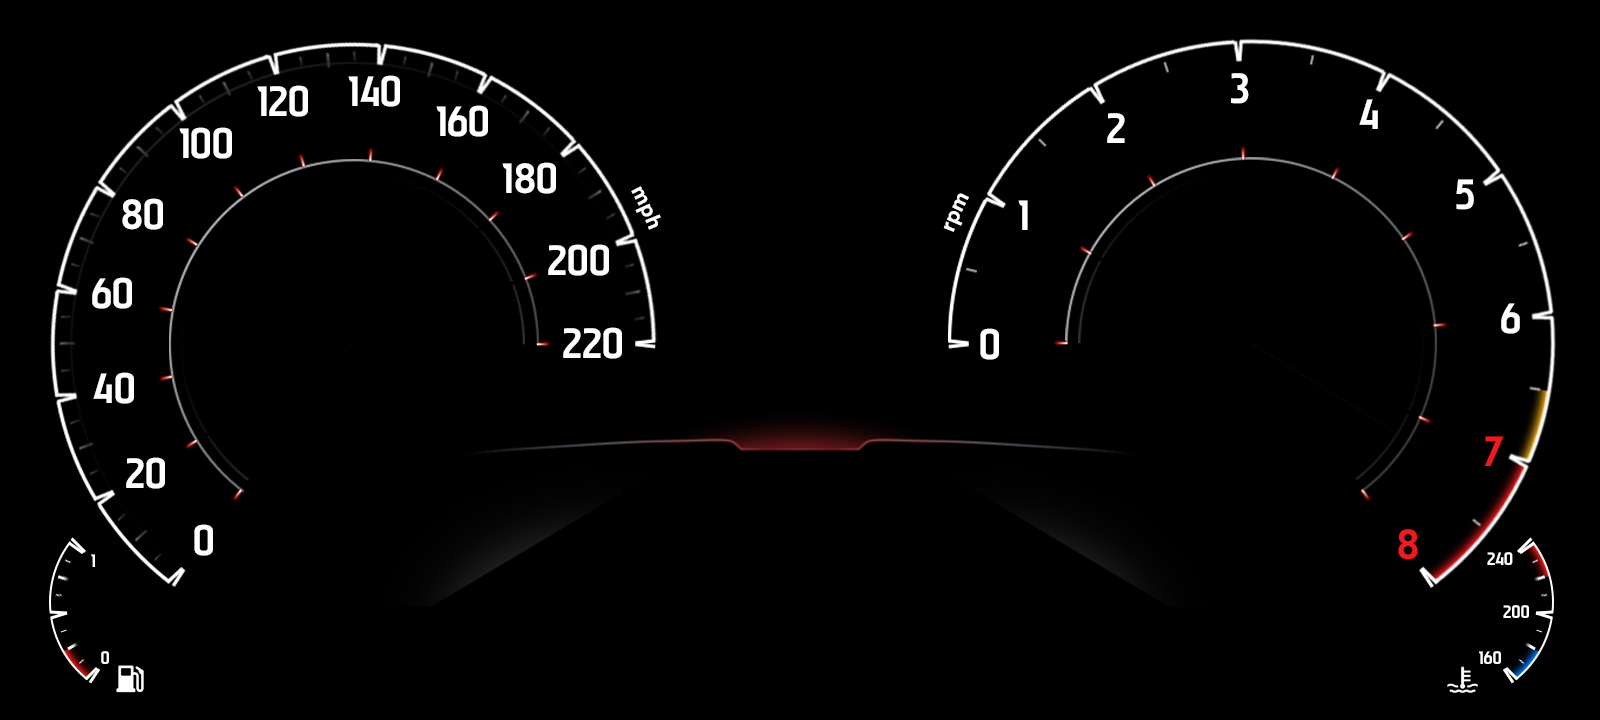
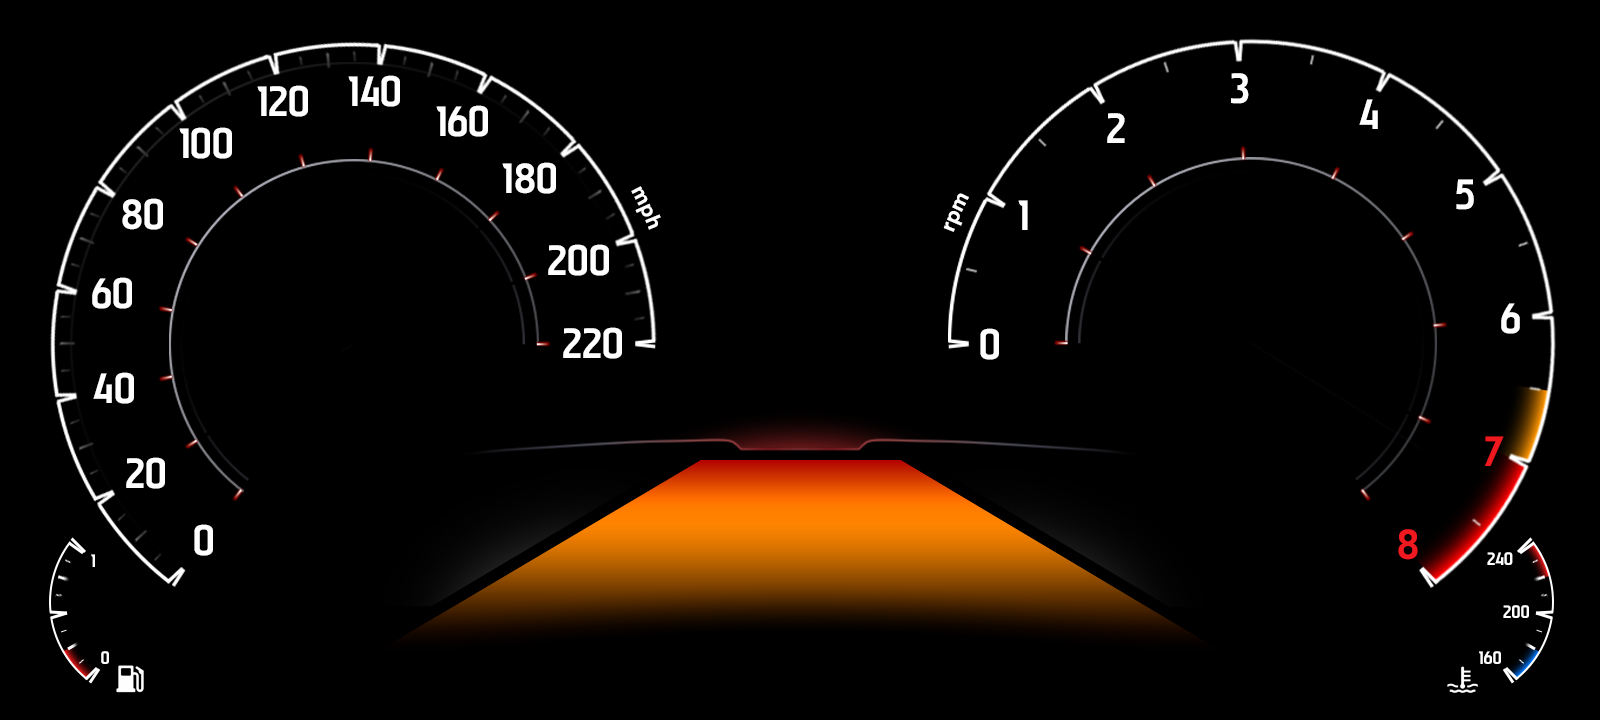
Add boost gauge, reposition indicators to top row, and update background
- Add boost gauge with trapezoid black overlay that recedes with boost pressure (0-30 PSI)
- Add boost PSI readout (range font) and scale lines overlay asset
- Add boost simulation to SimEngine (builds with throttle at higher RPM)
- Move warning indicators (oil, CEL, beams, battery, coolant) to top row
- Reposition gear indicator to upper center
- Update background.png with new gauge layout including boost area
- Add missing #include <unistd.h> in main.cpp
- Update SETUP.md to document boost gauge and layout changes

Changed region(s): [[0.25, 0.6417, 0.75, 0.8861], [0.875, 0.5194, 0.9688, 0.7944]]

diff --git a/br2-external/package/ultima-app/src/main.qml b/br2-external/package/ultima-app/src/main.qml
@@ -96,6 +96,61 @@ Window {
         pivotY: 74
     }
 
+    // Boost gauge — trapezoid black overlay that recedes upward with boost
+    Canvas {
+        x: 350
+        y: 460
+        width: 897   // 1247 - 350
+        height: 207  // 667 - 460
+
+        property real boost: sim.boost
+        onBoostChanged: requestPaint()
+
+        onPaint: {
+            var ctx = getContext("2d")
+            ctx.clearRect(0, 0, width, height)
+
+            var f = Math.min(1, Math.max(0, boost / 30))
+            var h = height * (1 - f)  // black area height from top
+            if (h <= 0) return
+
+            // Trapezoid edges: top is narrow (350..554), bottom is wide (0..897)
+            var tlx = 350  // 700 - 350
+            var trx = 554  // 904 - 350
+            var t = h / height
+            var blx = tlx * (1 - t)
+            var brx = trx + t * (897 - trx)
+
+            ctx.fillStyle = "black"
+            ctx.beginPath()
+            ctx.moveTo(tlx, 0)
+            ctx.lineTo(trx, 0)
+            ctx.lineTo(brx, h)
+            ctx.lineTo(blx, h)
+            ctx.closePath()
+            ctx.fill()
+        }
+    }
+
+    // Boost PSI readout
+    Text {
+        x: 800 - width / 2
+        y: 475 - height / 2
+        z: 10
+        font.family: rangeFont.name
+        font.pixelSize: 22
+        color: "white"
+        text: Math.round(sim.boost) + " PSI"
+    }
+
+    // Boost gauge scale lines overlay (above black trapezoid)
+    Image {
+        x: 0
+        y: 0
+        z: 1
+        source: "qrc:/boost_lines_overlay.png"
+    }
+
     // Left turn signal indicator
     Image {
         x: 25
@@ -113,18 +168,6 @@ Window {
         mirror: true
     }
 
-    // Beam indicators — top center (shared position)
-    Image {
-        x: 800 - width / 2; y: 23
-        source: "qrc:/icon_low_beam.png"
-        visible: sim.lowBeams && !sim.highBeams
-    }
-    Image {
-        x: 800 - width / 2; y: 23
-        source: "qrc:/icon_high_beam.png"
-        visible: sim.highBeams
-    }
-
     // Warning flash timer (300ms cycle)
     property bool _warnFlash: true
     Timer {
@@ -135,24 +178,34 @@ Window {
         onRunningChanged: if (running) _warnFlash = true
     }
 
-    // Dashboard warning indicators — row centered at y=495
+    // Top indicator row — evenly spaced at 80px intervals, centered at x=800
     Image {
-        x: 720 - width / 2; y: 485 - height / 2
+        x: 640 - width / 2; y: 23
         source: "qrc:/icon_oil_pressure.png"
         visible: sim.oilPressureWarn && _warnFlash
     }
     Image {
-        x: 780 - width / 2; y: 485 - height / 2
+        x: 720 - width / 2; y: 23
         source: "qrc:/icon_check_engine.png"
         visible: sim.checkEngine
     }
     Image {
-        x: 840 - width / 2; y: 485 - height / 2
+        x: 800 - width / 2; y: 23
+        source: "qrc:/icon_low_beam.png"
+        visible: sim.lowBeams && !sim.highBeams
+    }
+    Image {
+        x: 800 - width / 2; y: 23
+        source: "qrc:/icon_high_beam.png"
+        visible: sim.highBeams
+    }
+    Image {
+        x: 880 - width / 2; y: 23
         source: "qrc:/icon_battery.png"
         visible: sim.batteryWarn && _warnFlash
     }
     Image {
-        x: 900 - width / 2; y: 485 - height / 2
+        x: 960 - width / 2; y: 23
         source: "qrc:/icon_coolant_warn.png"
         visible: sim.coolantWarn && _warnFlash
     }
@@ -170,8 +223,8 @@ Window {
     // Gear indicator — centered at (798, 601)
     Text {
         id: gearIndicator
-        x: 798 - width / 2
-        y: 586 - height / 2
+        x: 803 - width / 2
+        y: 279 - height / 2
         font.family: bahnschriftFont.name
         font.pixelSize: 150
         color: "white"

diff --git a/br2-external/package/ultima-app/src/SimEngine.qml b/br2-external/package/ultima-app/src/SimEngine.qml
@@ -21,6 +21,7 @@ Item {
     property bool checkEngine: false
     property bool batteryWarn: false
     property bool coolantWarn: false
+    property real boost: 0  // 0-30 PSI
 
     // Internal state
     property real _targetSpeed: 0
@@ -118,6 +119,13 @@ Item {
             // Coolant temp settles around 190-200, rises with RPM
             var targetCoolant = 185 + engine.rpm / 2000 * 15 + (Math.random() - 0.5) * 2
             engine.coolantTemp += (targetCoolant - engine.coolantTemp) * 0.01
+
+            // Boost: builds with throttle at higher RPM
+            var boostTarget = 0
+            if (engine.speed > 20 && engine._accel > 0) {
+                boostTarget = Math.min(30, engine._accel * 200 + engine.rpm / 300)
+            }
+            engine.boost += (boostTarget - engine.boost) * 0.05
 
             // Dashboard indicators
             engine.lowBeams = engine.speed > 5

diff --git a/br2-external/package/ultima-app/src/main.cpp b/br2-external/package/ultima-app/src/main.cpp
@@ -5,6 +5,7 @@
 #include <QJsonDocument>
 #include <QJsonObject>
 #include <signal.h>
+#include <unistd.h>
 
 #include "odostore.h"
 

diff --git a/SETUP.md b/SETUP.md
@@ -40,7 +40,7 @@ A comprehensive guide for reproducing the Ultima project: a minimal Buildroot-ba
 - Read-only root filesystem (protects against SD card corruption from power cuts)
 - Separate writable `/data` partition for persistent odometer state
 - Image-based gauge rendering: background PNG + rotated needle PNG overlay
-- Dashboard warning indicators (ISO 7000 icons), gear indicator, odometer/trip odo with persistence
+- Dashboard warning indicators (ISO 7000 icons), boost gauge, gear indicator, odometer/trip odo with persistence
 
 **Boot sequence** (after EEPROM optimization):
 ```
@@ -186,7 +186,8 @@ br2-external/
         ├── background.png             # 1600x720 gauge cluster background
         ├── needle.png                 # Gauge needle image
         ├── left_indicator.png         # Turn signal icon
-        ├── range.regular.ttf          # Font for odometer display
+        ├── boost_lines_overlay.png     # Boost gauge scale lines overlay
+        ├── range.regular.ttf          # Font for odometer and boost PSI display
         ├── bahnschrift._semibold.ttf  # Font for gear indicator
         ├── icon_low_beam.png          # ISO 7000 low beam indicator
         ├── icon_high_beam.png         # ISO 7000 high beam indicator
@@ -774,6 +775,7 @@ RESOURCES += qml.qrc
         <file>icon_check_engine.png</file>
         <file>icon_battery.png</file>
         <file>icon_coolant_warn.png</file>
+        <file>boost_lines_overlay.png</file>
         <file>icon_low_beam.png</file>
         <file>icon_high_beam.png</file>
     </qresource>
@@ -827,18 +829,19 @@ int main(int argc, char *argv[])
 
 The app consists of 3 QML files, all in `br2-external/package/ultima-app/src/`:
 
-- **`main.qml`** — Root layout: 4 gauge needles over background image, turn signal indicators, beam indicators (top center), flashing warning indicator row (oil, engine, battery, coolant — red icons flash at 300ms), gear indicator (Bahnschrift SemiBold font, P/R/N/1-7), odometer + trip odometer with reset button, touch feedback dot. Includes 30s periodic save timer for odometer persistence via `odoStore`
+- **`main.qml`** — Root layout: 4 gauge needles over background image, boost gauge (trapezoid black overlay with PSI readout), turn signal indicators, top indicator row (oil, check engine, beams, battery, coolant — warnings flash at 300ms), gear indicator (Bahnschrift SemiBold font, P/R/N/1-7), odometer + trip odometer with reset button, touch feedback dot. Includes 30s periodic save timer for odometer persistence via `odoStore`
 - **`CircularGauge.qml`** — Reusable needle gauge component: rotates `needle.png` over a transparent item positioned at the gauge center. Configurable start/end angles, counter-clockwise mode, needle size/pivot, optional debug arc overlay
-- **`SimEngine.qml`** — Simulated driving data at 60ms intervals: speed wanders through city/suburban/highway/stop phases, RPM derived from gear ratios, automatic gear selection (P/R/N/1-7), fuel consumption, coolant temp. Loads initial odometer values from `odoStore` context property. Dashboard indicator states: low/high beams, oil pressure, check engine, battery, coolant warnings (with random toggles per phase)
+- **`SimEngine.qml`** — Simulated driving data at 60ms intervals: speed wanders through city/suburban/highway/stop phases, RPM derived from gear ratios, automatic gear selection (P/R/N/1-7), fuel consumption, coolant temp, boost pressure (0-30 PSI, builds with throttle at higher RPM). Loads initial odometer values from `odoStore` context property. Dashboard indicator states: low/high beams, oil pressure, check engine, battery, coolant warnings (with random toggles per phase)
 
 ### Asset Files
 
 | File | Purpose |
 |------|---------|
-| `background.png` | 1600x720 gauge cluster face (speedometer, tachometer, fuel, coolant) |
+| `background.png` | 1600x720 gauge cluster face (speedometer, tachometer, fuel, coolant, boost) |
 | `needle.png` | Gauge needle image (rotated by CircularGauge) |
+| `boost_lines_overlay.png` | Boost gauge scale lines overlay |
 | `left_indicator.png` | Turn signal arrow icon (mirrored for right) |
-| `range.regular.ttf` | Font for odometer display |
+| `range.regular.ttf` | Font for odometer and boost PSI display |
 | `bahnschrift._semibold.ttf` | Bahnschrift SemiBold font for gear indicator |
 | `icon_*.png` | ISO 7000 dashboard warning icons (51x51, white on transparent) |
 